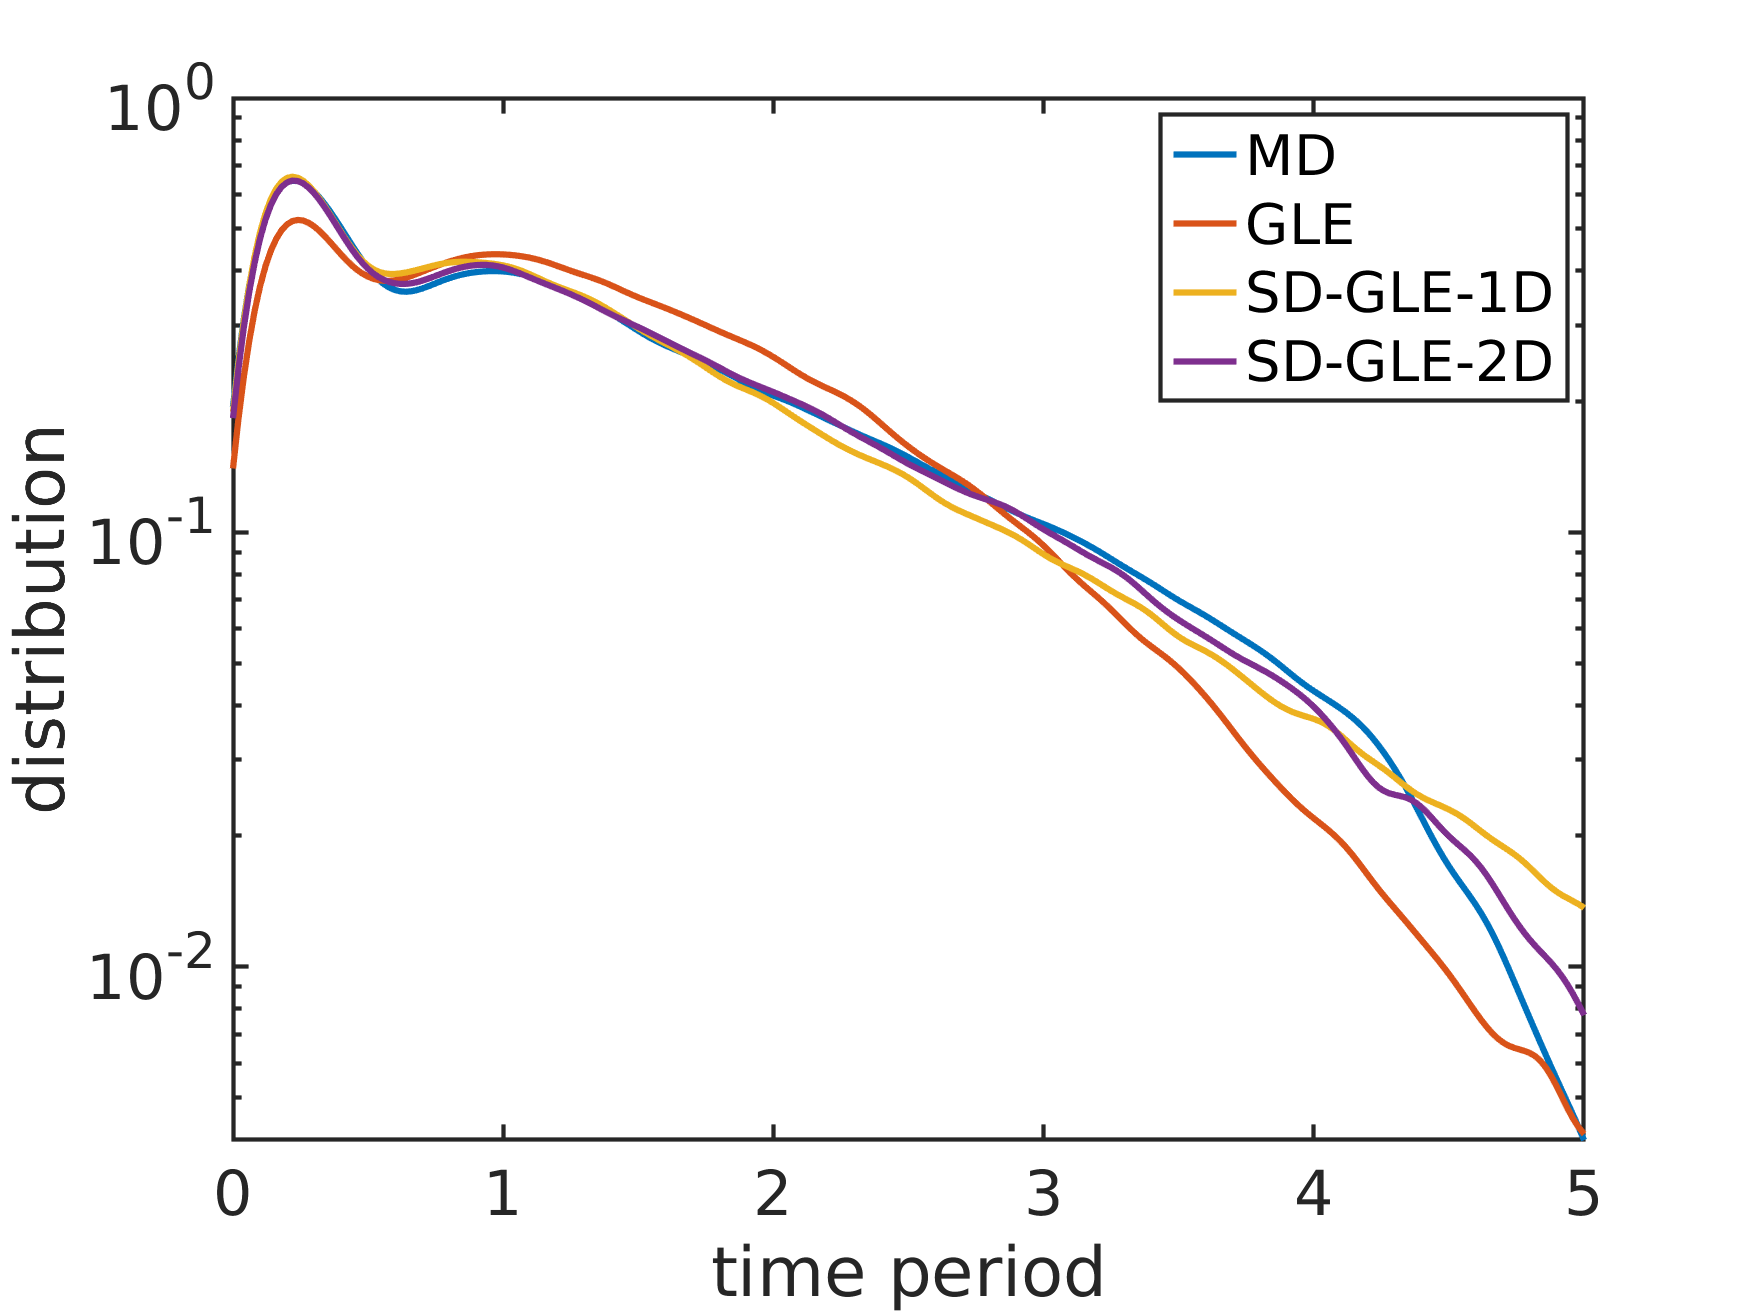
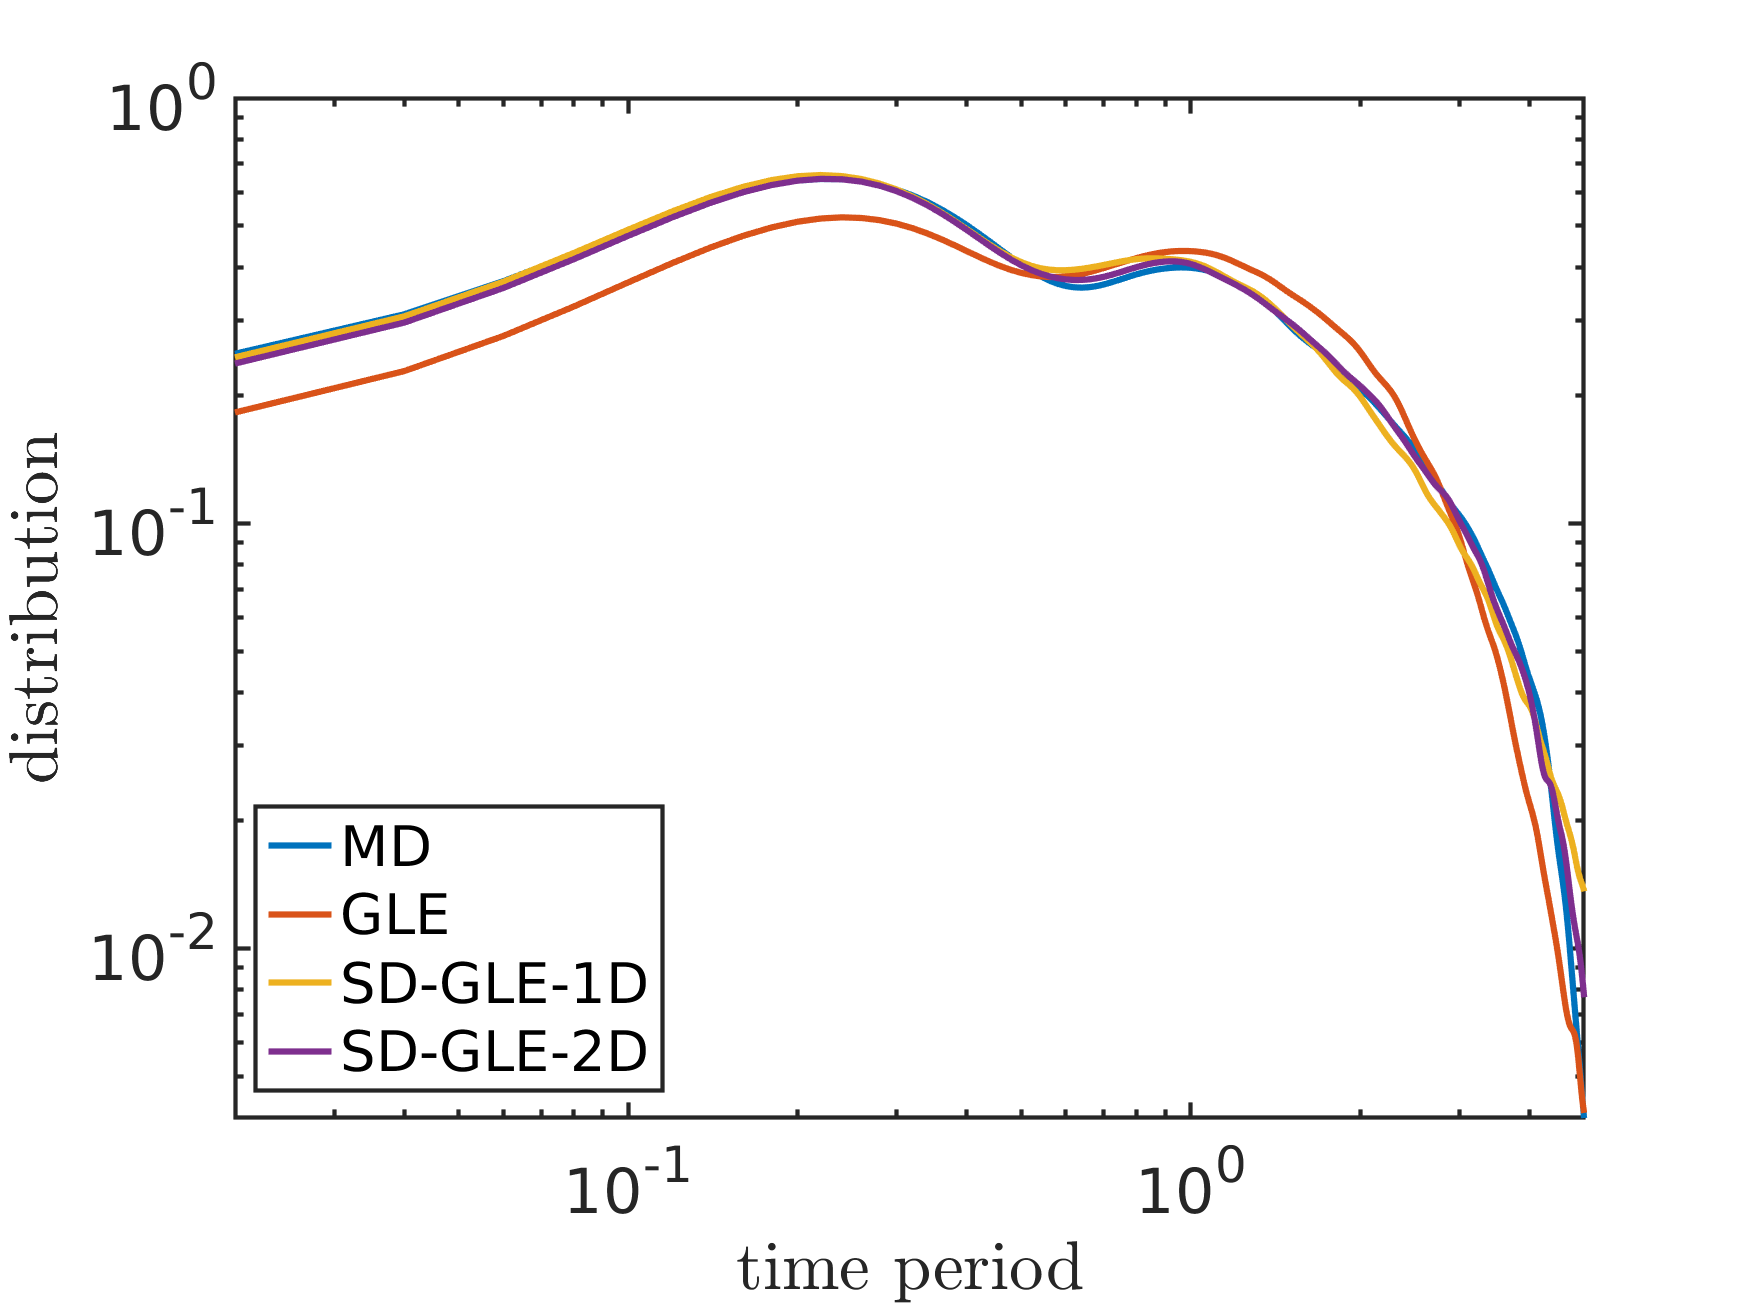
update

diff --git a/case_unimodal/main.m b/case_unimodal/main.m
@@ -1,5 +1,8 @@
+%% For generating training sets and simulations.
+
+parpool(16)   % use parfor with 16 threads
 M=128;
-% step0_collect_data(M); % get data from MD trajectories
+step0_collect_data(M); % get data from MD trajectories
 step1_PDF(M); % compute Probability Distribution Function with ksdensity
 step2_hx(); % compute h(x)
 
@@ -56,12 +59,25 @@ corr4=load('data/corr_hx_GLE_2D.mat');
 figure(1);hold on;box on
 set(gcf, 'DefaultLineLineWidth', 3.0,'DefaultLineMarkerSize',12);
 plot(ff_x,pdf)
-title('PDF')
-xlabel('x');ylabel('\rho (x)')
+title('Probability Distribution','Interpreter','latex')
+xlabel('$q$','Interpreter','latex')
+ylabel('$\rho(q)$','Interpreter','latex')
 set(gca,'FontSize',30,'LineWidth',2.0)
 saveas(gcf,'fig/PDF.png')
 
 figure(2);hold on;box on
+set(gcf, 'DefaultLineLineWidth', 3.0,'DefaultLineMarkerSize',12);
+plot(ff_x,-log(pdf))
+ylim([0,15])
+title('Free Energy','Interpreter','latex')
+xlabel('$q$','Interpreter','latex');
+ylabel('$U(q)/k_BT$','Interpreter','latex')
+xticks([0,10,20])
+yticks([0,5,10,15])
+set(gca,'FontSize',30,'LineWidth',2.0)
+saveas(gcf,'fig/FreeEnergy.png')
+
+figure(3);hold on;box on
 set(gcf, 'DefaultLineLineWidth', 3.0,'DefaultLineMarkerSize',12);
 corr_ver='corr_vv';
 plot(corr1.corr_t,corr1.(corr_ver),'Displayname','MD')
@@ -70,19 +86,20 @@ plot(corr3.corr_t,corr3.(corr_ver),'Displayname','SD-GLE-1D')
 plot(corr4.corr_t,corr4.(corr_ver),'Displayname','SD-GLE-2D')
 xlim([0,40])
 legend
-title('<v(t),v(0)>')
-xlabel('x');ylabel('\rho (x)')
+title('Velocity Correlation','Interpreter','latex')
+xlabel('$t$','Interpreter','latex');
+ylabel('$\langle v(t),v(0) \rangle$','Interpreter','latex')
 set(gca,'FontSize',30,'LineWidth',2.0)
 saveas(gcf,'fig/corr_vv.png')
 
-figure(3);hold on;box on
+fig=figure(3);hold on;box on
 set(gcf, 'DefaultLineLineWidth', 3.0,'DefaultLineMarkerSize',12);
 corr_ver='xcorr_vv';
 i=1;
 for bin=8:8:32
     subplot(2,2,i);i=i+1;
     hold on;box on;
-    title(['x=[',num2str(hx_x(bin)),',',num2str(hx_x(bin)+hx_x(2)-hx_x(1)),']'])
+    title(['$q^* \in [',num2str(hx_x(bin)),',',num2str(hx_x(bin)+hx_x(2)-hx_x(1)),']$'],'Interpreter','latex')
     set(gca,'ColorOrderIndex',1)
     plot(corr1.xcorr_t,corr1.(corr_ver)(bin,:),'Displayname','MD')
     plot(corr2.xcorr_t,corr2.(corr_ver)(bin,:),'Displayname','GLE')
@@ -91,6 +108,13 @@ for bin=8:8:32
     legend
     set(gca,'FontSize',16,'LineWidth',2.0)
 end
+axs=axes(fig,'visible','off'); 
+axs.Title.Visible='on';
+axs.XLabel.Visible='on';
+axs.YLabel.Visible='on';
+ylabel(axs,'$\langle v(t),v(0) |q(0)=q^* \rangle$','Interpreter','latex');
+xlabel(axs,'$t$','Interpreter','latex');
+set(axs,'FontSize',30,'LineWidth',2.0)
 saveas(gcf,'fig/xcorr_vv.png')
 
 figure(4);hold on;box on
@@ -101,39 +125,13 @@ plot(tail_x,ksdensity(corr2.tail,tail_x,'Bandwidth',bd),'Displayname','GLE')
 plot(tail_x,ksdensity(corr3.tail,tail_x,'Bandwidth',bd),'Displayname','SD-GLE-1D')
 plot(tail_x,ksdensity(corr4.tail,tail_x,'Bandwidth',bd),'Displayname','SD-GLE-2D')
 xlim([0,5])
+set(gca, 'YScale', 'log', 'XScale', 'log')
 set(gca, 'YScale', 'log')
-legend
-title('Distribution for the time that x>15')
-xlabel('time period');ylabel('distribution')
+legend('Location','Best')
+xlabel('time period','Interpreter','latex');ylabel('distribution','Interpreter','latex')
 set(gca,'FontSize',30,'LineWidth',2.0)
 saveas(gcf,'fig/tail.png')
 
-%%
-close all
-figure(5);hold on;box on
-set(gcf, 'DefaultLineLineWidth', 3.0,'DefaultLineMarkerSize',12);
-tail_x=(0:500)*0.02;bd=0.08;
-plot(tail_x,ksdensity(corr1.tail,tail_x,'Bandwidth',bd),'Displayname','MD')
-plot(tail_x,ksdensity(corr2.tail,tail_x,'Bandwidth',bd),'Displayname','GLE')
-plot(tail_x,ksdensity(corr3.tail,tail_x,'Bandwidth',bd),'Displayname','SD-GLE-1D')
-plot(tail_x,ksdensity(corr4.tail,tail_x,'Bandwidth',bd),'Displayname','SD-GLE-2D')
-xlim([0,5])
-set(gca, 'YScale', 'log', 'XScale', 'log')
-legend('Location','Best')
-xlabel('time period');ylabel('distribution')
-set(gca,'FontSize',30,'LineWidth',2.0)
-saveas(gcf,'fig/tail_v2.png')
-
-figure(6);hold on;box on
-set(gcf, 'DefaultLineLineWidth', 3.0,'DefaultLineMarkerSize',12);
-plot(ff_x,-log(pdf))
-ylim([0,15])
-xlabel('$q$','Interpreter','latex');
-ylabel('$U(q)/k_BT$','Interpreter','latex')
-xticks([0,10,20])
-yticks([0,5,10,15])
-set(gca,'FontSize',30,'LineWidth',2.0)
-saveas(gcf,'fig/FreeEnergy.png')
 
 
 

diff --git a/case_bimodal/main.m b/case_bimodal/main.m
@@ -1,4 +1,5 @@
-%%
+%% For generating training sets and simulations.
+
 parpool(16)   % use parfor with 16 threads
 M=512; % specify the number of trajectories 
 step1_PDF(M);  % compute PDF with ksdensity

diff --git a/README.md b/README.md
@@ -20,22 +20,22 @@ The example is given in folder 'case_unimodal', and 'main.m' provides how to dri
 
 3. Compute the probability distribution function by 'step1_PDF.m', which will also get the conservative force ('data/PDF.mat').
 
-4. Compute the 1D $h(x)$ by 'step2_hx.m'. This is done by only consider the state-dependency when $t=0$ ('data/PDF.mat').
+4. Compute the 1D $h(q)$ by 'step2_hx.m'. This is done by only consider the state-dependency when $t=0$ ('data/PDF.mat').
 
 ```math
-m\dot{v}_t=F(x_t)-h(x_t) \int_0^t \theta(t-\tau)h(x_\tau) v_\tau d\tau+h(x_t) R_t 
+m\dot{v}_t=F(q_t)-h(q_t) \int_0^t \theta(t-\tau)h(x_\tau) v_\tau d\tau+h(q_t) R_t 
 ```
 ```math
-h(x)= \frac{\langle \dot{v}_0-f(x_0),\dot{v}_0 |x_0=x \rangle}{\langle v_0,v_0 \rangle}.
+h(x)= \frac{\langle \dot{v}_0-f(q_0),\dot{v}_0 |q_0=q \rangle}{\langle v_0,v_0 \rangle}.
 ```
 
 5. Compute the two points correlation functions by 'step3_corr.m' and 'step4_hx_corr.m' to construct 1D kernel ('data/corr.mat' and 'data/hx_corr.mat').
 
 ```math
-\frac{m\dot{v}_t-F(x_t)}{h(x_t)}= \int_0^t \theta(t-\tau)h(x_\tau) v_\tau d\tau+ R_t 
+\frac{m\dot{v}_t-F(q_t)}{h(q_t)}= \int_0^t \theta(t-\tau)h(q_\tau) v_\tau d\tau+ R_t 
 ```
 ```math
-\langle \frac{m\dot{v}_t-F(x_t)}{h(x_t)},v_0 \rangle= \int_0^t \theta(t-\tau) \langle h(x_\tau) v_\tau, v_0 \rangle d\tau+ R_t 
+\langle \frac{m\dot{v}_t-F(q_t)}{h(q_t)},v_0 \rangle= \int_0^t \theta(t-\tau) \langle h(q_\tau) v_\tau, v_0 \rangle d\tau+ R_t 
 ```
 
 6. Compute three point correlation functions for ND state-dependent kernel by 'step3_training_set.m' and 'step4_collect_training_set.m' ('data/dx_10_w_501.mat').
@@ -54,7 +54,7 @@ h(x)= \frac{\langle \dot{v}_0-f(x_0),\dot{v}_0 |x_0=x \rangle}{\langle v_0,v_0 \
 <img src="case_unimodal/fig/PDF.png" alt="drawing" width="49%" />
 </p>
 
-The following two figures shows $\langle v(t),v(0) \rangle$ and $\langle v(t),v(0) |x(0)=x^* \rangle$
+The following two figures shows $\langle v(t),v(0) \rangle$ and $\langle v(t),v(0) |q(0)=q^* \rangle$
 
 <p align="center">
   <img src="case_unimodal/fig/corr_vv.png" alt="drawing" width="49%" />
@@ -62,7 +62,7 @@ The following two figures shows $\langle v(t),v(0) \rangle$ and $\langle v(t),v(
 </p>
 
 
-The following figure shows the distribution of the continuous time period that $x>15$.
+The following figure shows the distribution of the period for the molecule taking a certain conformation state ($q>15$).
 
 <p align="center">
 <img src="case_unimodal/fig/tail.png" alt="drawing" width="49%" />
@@ -93,11 +93,13 @@ The example is given in folder 'case_bimodal', and 'main.m' provides how to driv
 
 ### Results
 
+The left figure shows the distruction $P(q)$ and the right shows the free energy $U(q)$ with two local minima.
 <p align="center">
 <img src="case_bimodal/fig/PDF.png" alt="drawing" width="49%" />
+<img src="case_bimodal/fig/FreeEnergy.png" alt="drawing" width="49%" />
 </p>
 
-The following two figures shows $\langle v(t),v(0) \rangle$ and $\langle v(t),v(0) |x(0)=x^* \rangle$
+The left shows $\langle v(t),v(0) \rangle$ and right shows $\langle v(t),v(0) |x(0)=x^* \rangle$
 
 <p align="center">
 <img src="case_bimodal/fig/corr_vv.png" alt="drawing" width="49%" />
